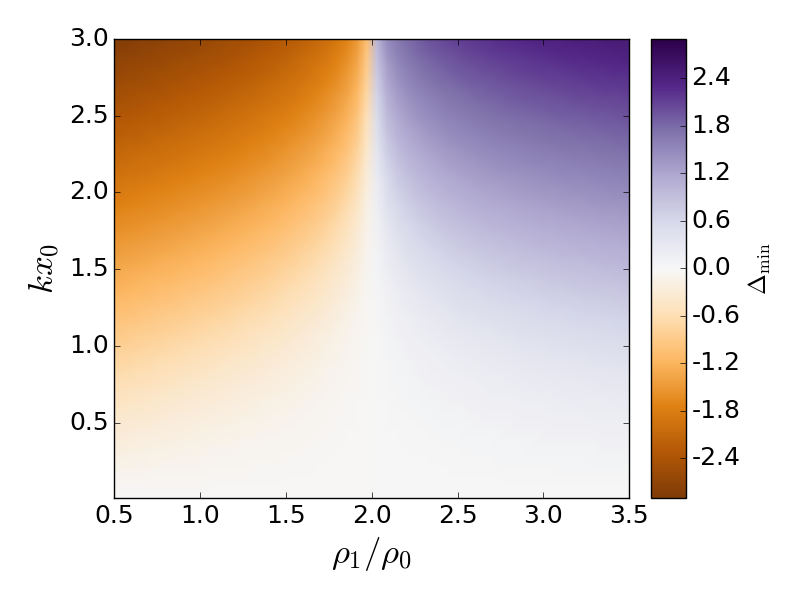
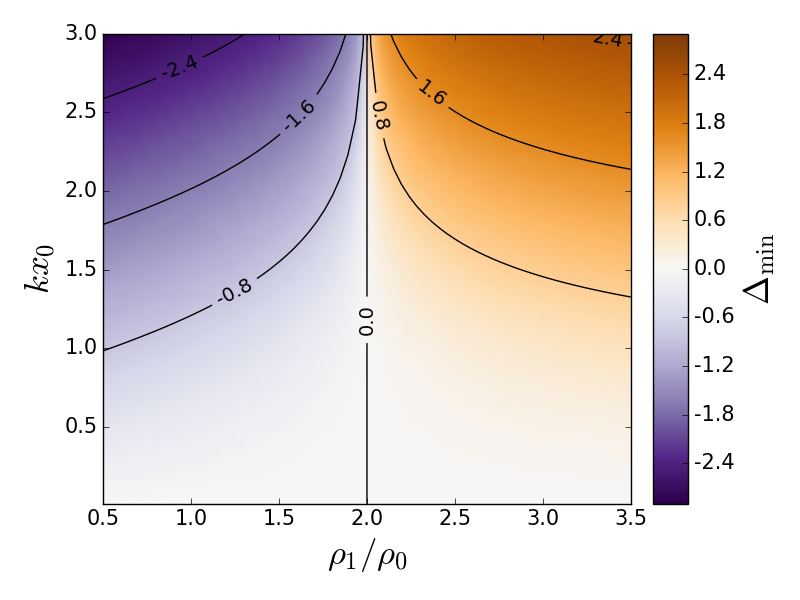
added contours to sms.py

diff --git a/sms.py b/sms.py
@@ -37,10 +37,10 @@ for mode in mode_options:
 
 mode = mode_options[0]
 
-#plot_variable = 'amp-ratio'
+plot_variable = 'amp-ratio'
 #plot_variable = 'amp-ratio-2'
 #plot_variable = 'min-pert-shift'
-plot_variable = 'min-pert-shift-2'
+#plot_variable = 'min-pert-shift-2'
 #plot_variable = 'W'
 
 print('Plotting ' + plot_variable + ' for ' + mode + ' mode')
@@ -156,8 +156,8 @@ def trans(R1):
 # Set up the data
 
 #number of iternations in R1 and K
-NR1 = 50 #100
-NK = 50 #400 for fast kink surf? #100
+NR1 = 70 #100
+NK = 70 #400 for fast kink surf? #100
 
 Kmax1 = 8. #5.
 R1max1 = 4.
@@ -255,11 +255,8 @@ def clim(data, plot_variable):
     if np.nanmax(data) < max_level:
         max_level= max_level + 0.1
     largest = max(abs(max_level),abs(min_level))
-    if 'amp-ratio' in plot_variable:
-        if 'kink' in mode:
-            return [2 - max_level, max_level]
-        if 'saus' in mode:
-            return [min_level, -2 - min_level]
+    if 'amp-ratio' in plot_variable:    
+        return None
     elif 'min-pert-shift' in plot_variable:
         return [-largest, largest]
     elif plot_variable == 'W':
@@ -303,14 +300,17 @@ else:
 fig = plt.figure()
 aspect = 'auto'
 
-if 'amp-ratio' in plot_variable:
-    im = plt.imshow(data_set.transpose(), cmap=cmap, origin='lower', norm=norm, 
-                    aspect=aspect, extent=[R1vals[0],R1vals[-1],Kvals[0],Kvals[-1]])
-else:
-    im = plt.imshow(data_set.transpose(), cmap=cmap, origin='lower', clim=clim(data_set,plot_variable),
-                    aspect=aspect, extent=[R1vals[0],R1vals[-1],Kvals[0],Kvals[-1]])
-ax = plt.gca()
+#
+im = plt.imshow(data_set.transpose(), cmap=cmap, origin='lower', norm=norm, 
+                clim=clim(data_set,plot_variable), aspect=aspect, 
+                extent=[R1vals[0],R1vals[-1],Kvals[0],Kvals[-1]])
+contours = plt.contour(data_set.transpose(), colors='black', extent=[R1vals[0],R1vals[-1],Kvals[0],Kvals[-1]])
 
+#Make negative contours solid too.
+matplotlib.rcParams['contour.negative_linestyle'] = 'solid'
+
+plt.clabel(contours, inline=1, fmt='%1.1f', fontsize=14)
+ax = plt.gca()
 
 plt.xlabel(r'$\rho_1/\rho_0$', fontsize=25)
 plt.ylabel(r'$kx_0$', fontsize=25)
